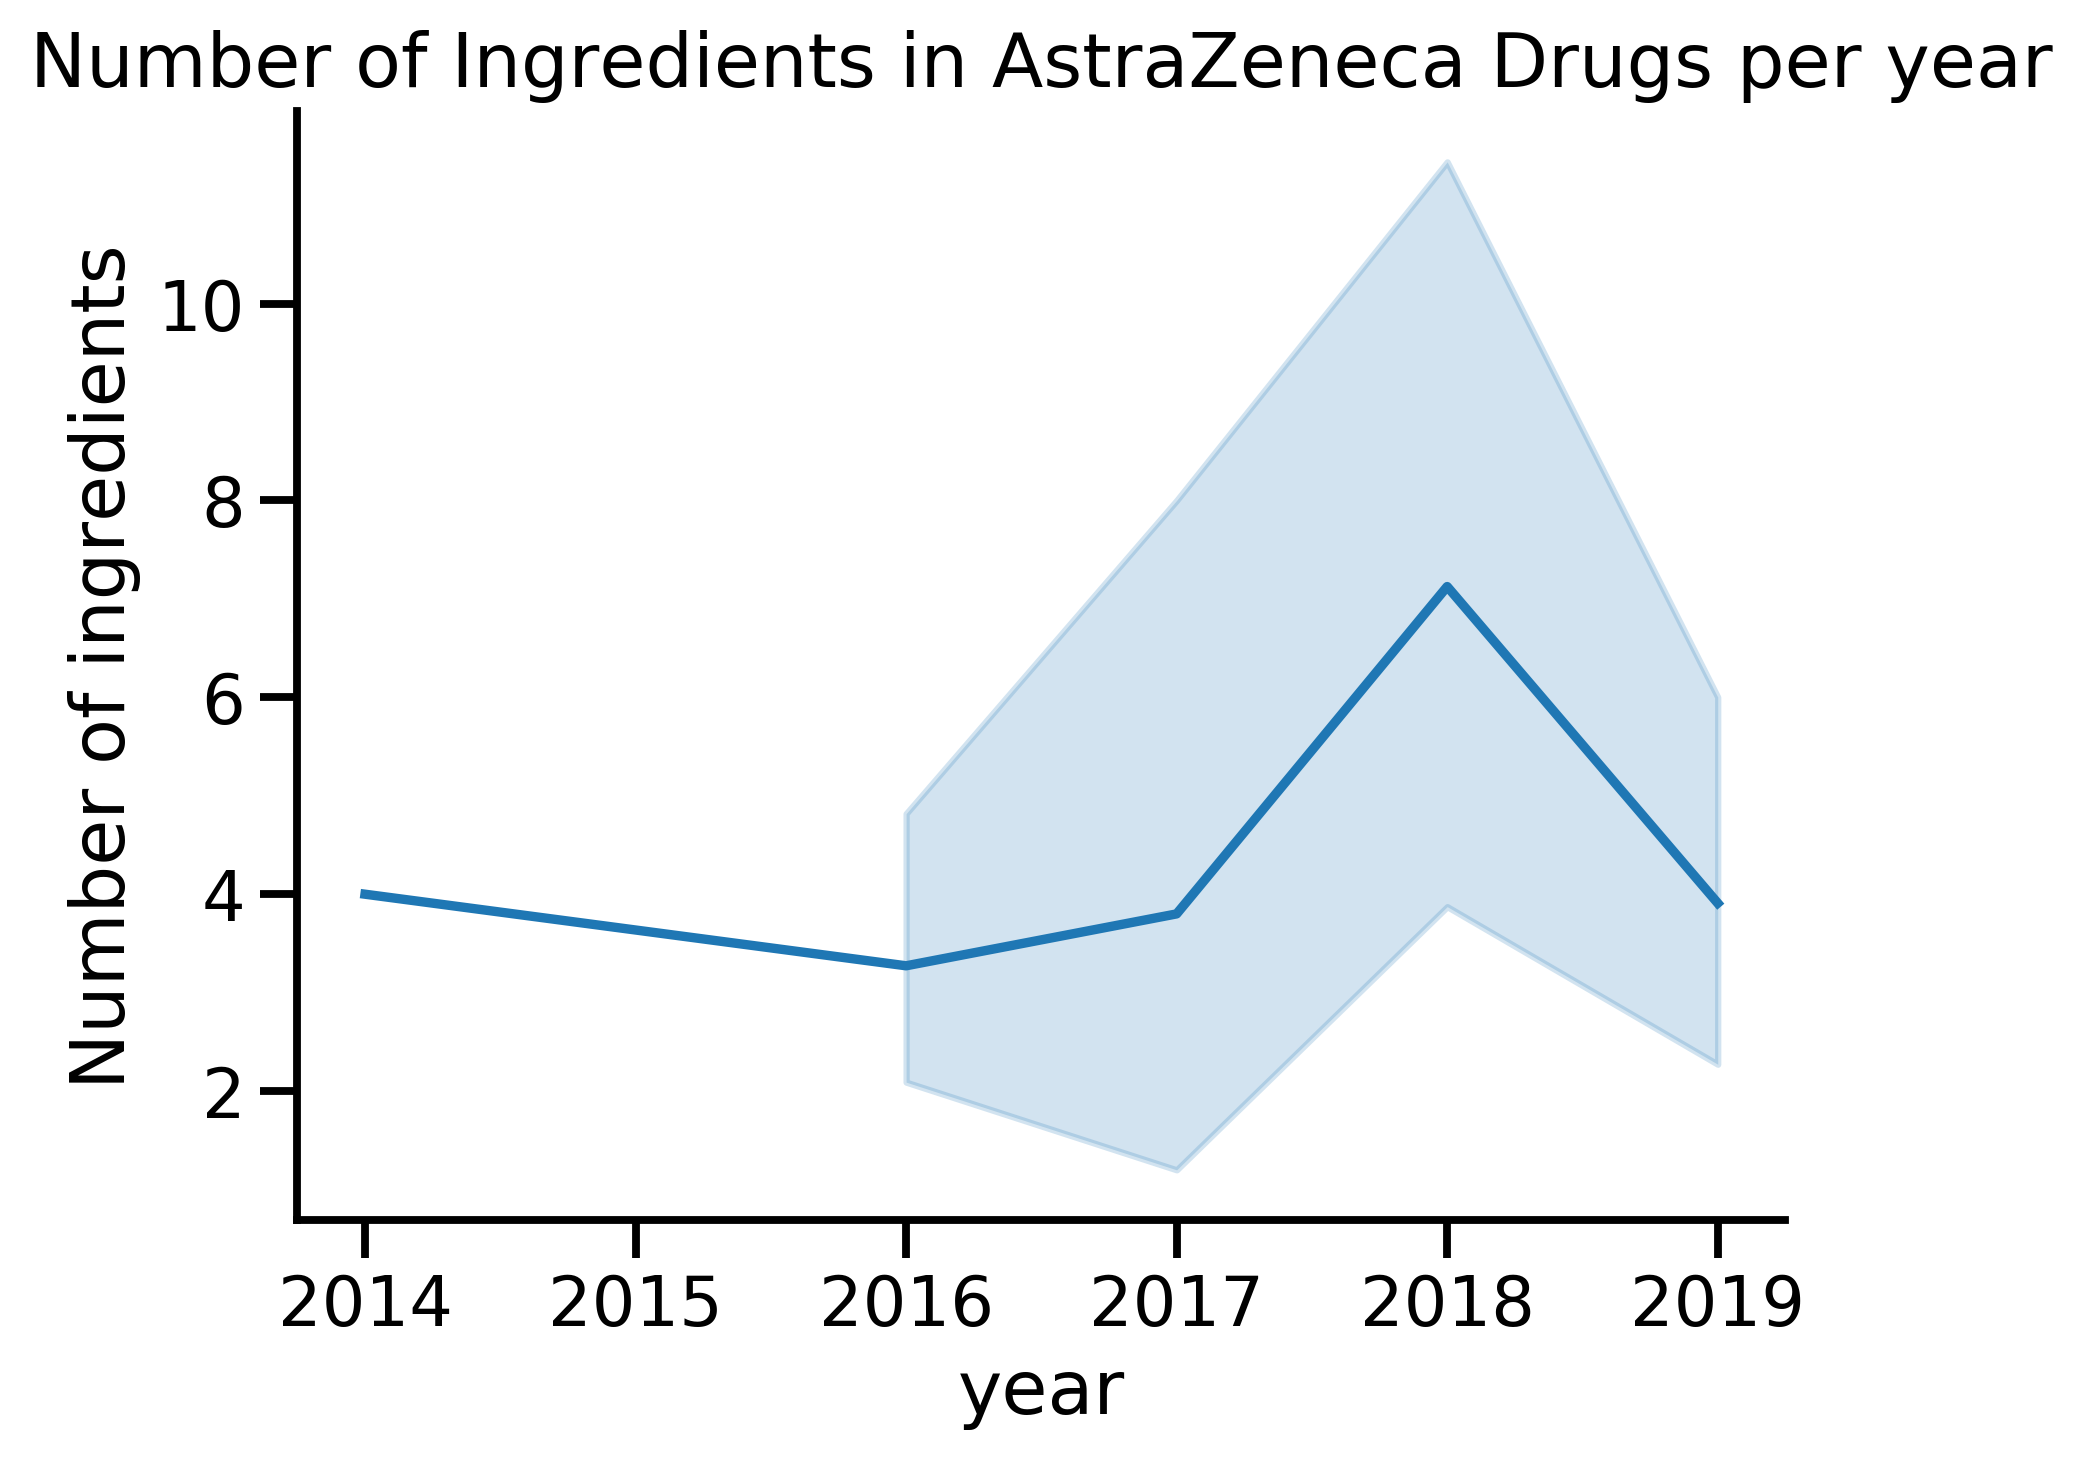
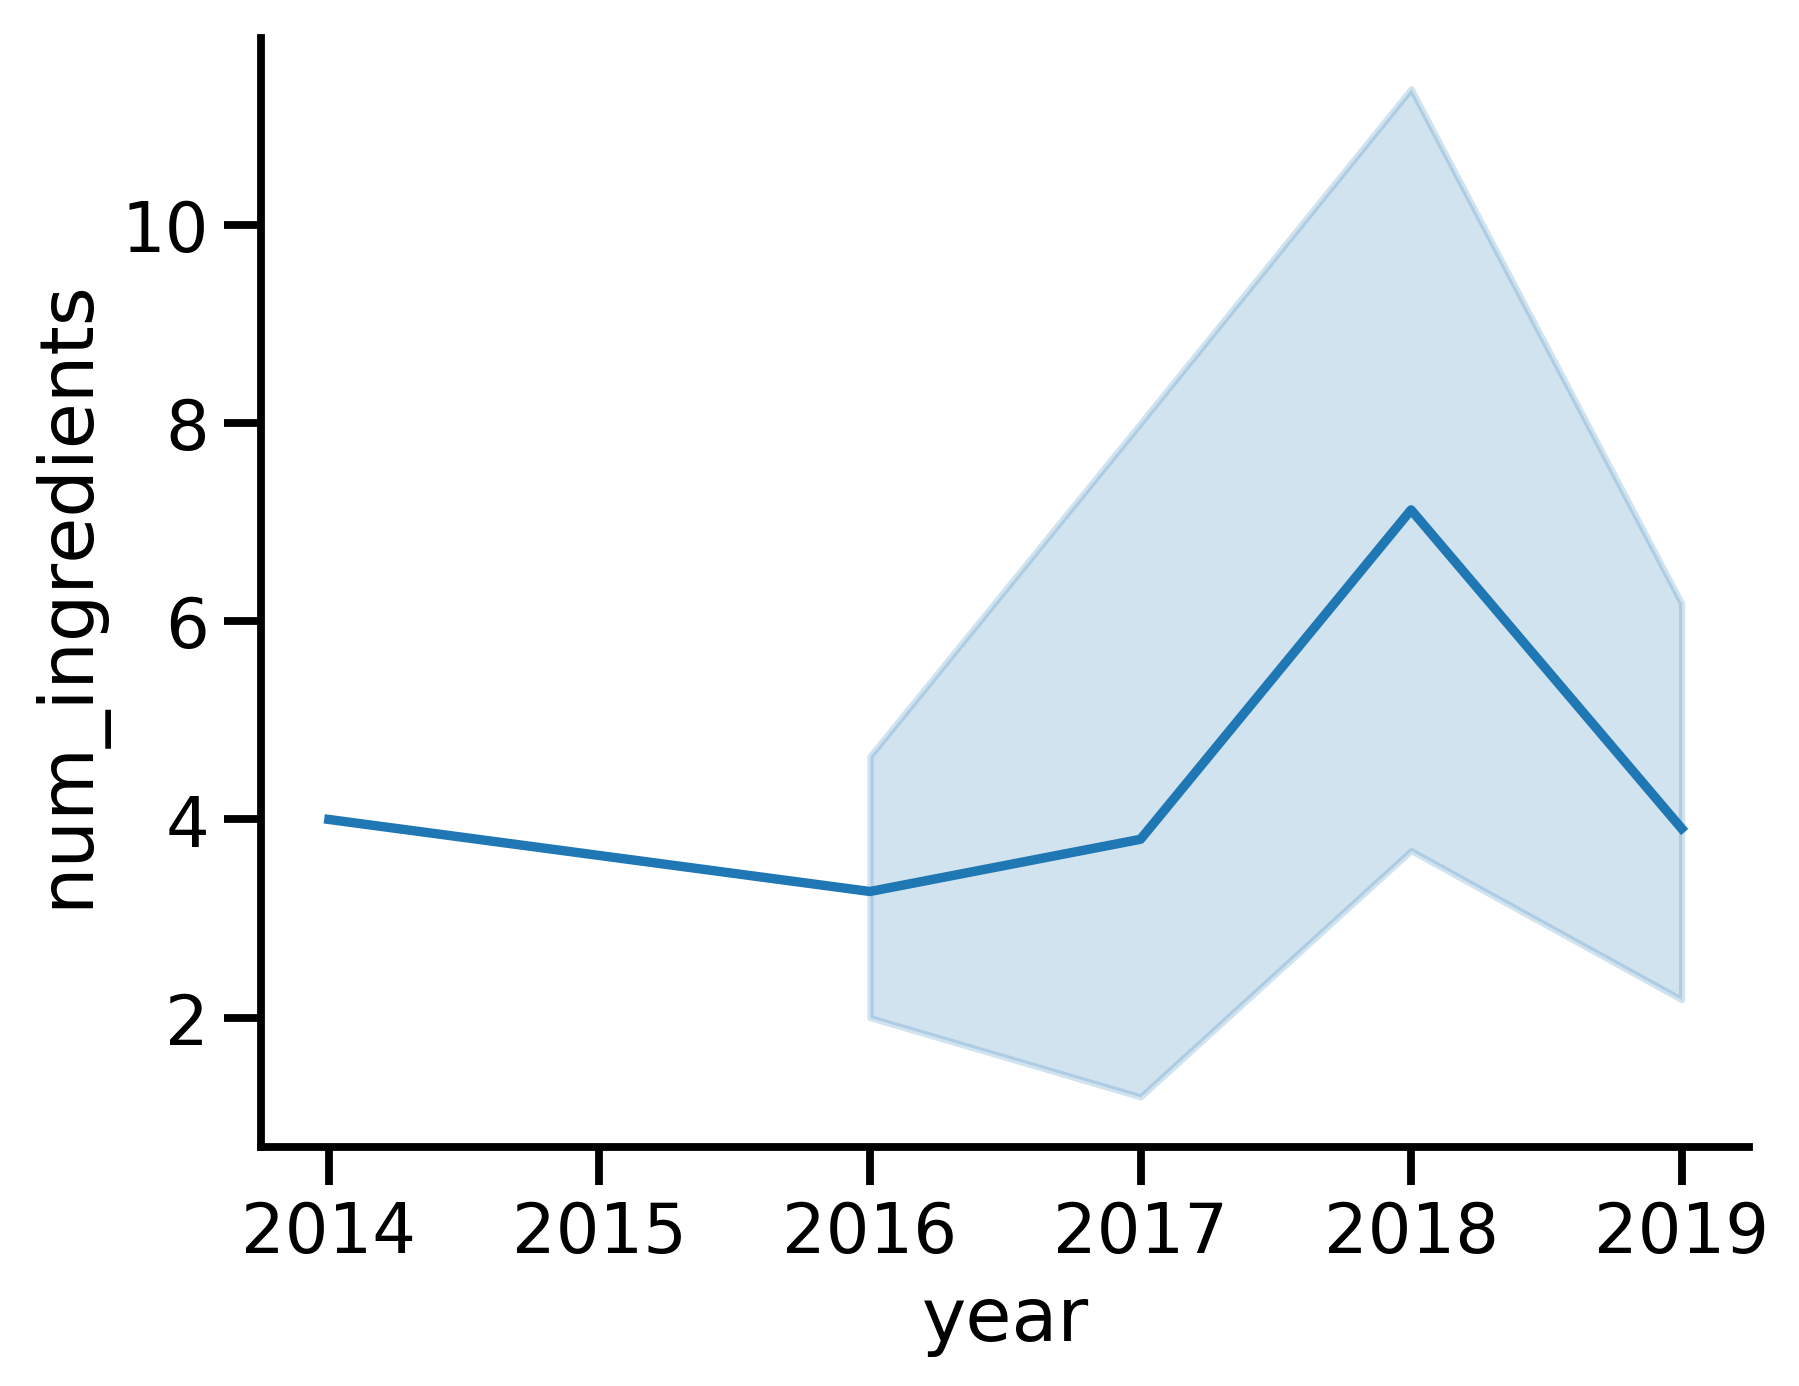
fixed broken tests

diff --git a/ingredient_analytics/tests.py b/ingredient_analytics/tests.py
@@ -14,20 +14,24 @@ class IngredientAnalyticTests(unittest.TestCase):
     def test_fetch_data(self):
         q = IngredientAnalytics(self.url)
         df = q._fetch_data()
-        expected = 43
+        expected = 44
         self.assertEqual(expected, df.shape[0])
 
     def test_plot(self):
         q = IngredientAnalytics(self.url)
-        q.barplot(savefig=True)
-        fname = os.path.join(GRAPHS_DIRECTORY, 'number_of_ingredients_per_year.png')
+        q.plot(
+            x_name='year', y_name='num_ingredients',
+            savefig=True,
+            fname=os.path.join(GRAPHS_DIRECTORY, 'number_of_ingredients_per_year_lineplot.png'),
+        )
+        fname = os.path.join(GRAPHS_DIRECTORY, 'number_of_ingredients_per_year_lineplot.png')
         self.assertTrue(os.path.isfile(fname))
 
     def test_average_num_per_year(self):
         q = IngredientAnalytics(self.url)
-        expected = 46.666667
+        expected = 3.8
         actual = q.av_number_ingredients_per_year().loc[2017]['avg_number_of_ingredients']
-        self.assertAlmostEqual(expected, actual, 4)
+        self.assertAlmostEqual(expected, actual)
 
 
 class IngredientAndRouteAnalyticsTests(unittest.TestCase):
@@ -46,15 +50,19 @@ class IngredientAndRouteAnalyticsTests(unittest.TestCase):
 
     def test_plot(self):
         q = IngredientAndRouteAnalytics(self.url)
-        q.plot(savefig=True)
-        fname = os.path.join(GRAPHS_DIRECTORY, 'number_of_ingredients_per_year_per_route.png')
+        q.plot(
+            x_name='year', y_name='num_ingredients',
+            savefig=True,
+            fname=os.path.join(GRAPHS_DIRECTORY, 'number_of_ingredients_per_year_per_route_lineplot.png'),
+            )
+        fname = os.path.join(GRAPHS_DIRECTORY, 'number_of_ingredients_per_year_per_route_lineplot.png')
         self.assertTrue(os.path.isfile(fname))
 
     def test_average_num_per_year_per_route(self):
         q = IngredientAndRouteAnalytics(self.url)
-        expected = 12.0
+        expected = 1.0
         actual = q.av_number_ingredients_per_year_per_route().loc[2017, 'SUBCUTANEOUS']['avg_number_of_ingredients']
-        self.assertAlmostEqual(expected, actual, 4)
+        self.assertAlmostEqual(expected, actual)
 
 
 if __name__ == '__main__':

diff --git a/ingredient_analytics/ingredient_analytics.py b/ingredient_analytics/ingredient_analytics.py
@@ -283,7 +283,7 @@ if __name__ == '__main__':
         ingredient_and_route_analytics.plot(
             x_name='year', y_name='num_ingredients',
             savefig=True,
-            fname=os.path.join(GRAPHS_DIRECTORY, 'number_of_ingredients_per_year_per_route{}.png'.format(i.__name__)),
+            fname=os.path.join(GRAPHS_DIRECTORY, 'number_of_ingredients_per_year_per_route_{}.png'.format(i.__name__)),
             cls=i, title='Number of Ingredients in AstraZeneca \nDrugs per Year per Route',
             xlabel='year', ylabel='Number of ingredients', hue='route', legend=True
         )
